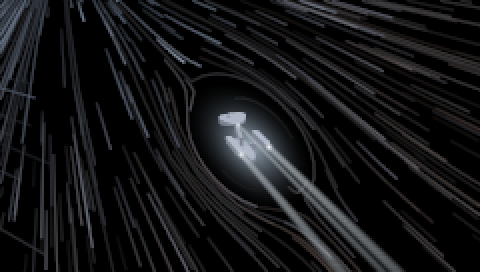
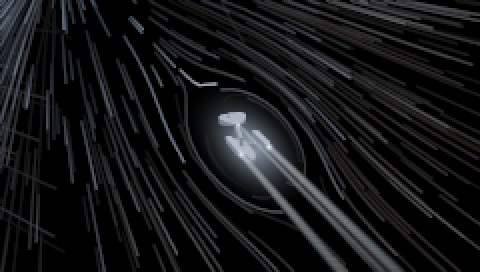
Shoot both front-page frames at the same size
The README opens with two pictures and they were not the same shape.
The hero was 440x240 and the shot from astern 480x272, so the pair
stacked with a common left edge and a forty-pixel step down the right.
Neither size had been chosen against the other: cockpit shots were
taken at --size 220x60 because the first one was, and exterior shots at
the default 240x68 because side.png was and astern.png followed it. Two
conventions, one page.

Both are the default now. Neither command passes --size, which is the
whole of the fix and the part worth keeping: run_snapshot falls back to
240x68, a cell is two subpixels tall, and --scale 2 doubles both axes,
so 480x272 falls out of asking for nothing.

    common="--engage --throttle 1.0 --warmup 600 --scale 2"
    warp --snapshot docs/warp.png   $common --seed 6
    warp --snapshot docs/astern.png $common --view side --orbit 245,30,0 --seed 8

The seeds are re-picked because the hero's was chosen against a frame
it no longer has. 354708a took seed 7 at 220x60 for spreading the
streaks most evenly into the corners, and the frame is wider and taller
now with a pool that grows with it — 528 stars to 652, the automatic
density being per subpixel rather than per cell. Eight seeds were
rendered at the new framing and measured on the mean brightness of the
four corner sixteenths: seed 6 holds them within 91% of each other,
where seed 7 manages 57% and the shot being replaced 36%. It also has
[…]

diff --git a/src/cli.rs b/src/cli.rs
@@ -49,7 +49,8 @@ const MAX_COUNT: u32 = 1_000_000;
 /// the image is the canvas magnified on both axes, so at the snapshot's
 /// default 240x68 — 240 by 136 subpixels — sixteen comes to 3840 by 2176, or
 /// 25 MB of RGB. Past that the useful range has long since been left behind;
-/// the README's snapshots are taken at 2 and 3.
+/// the README's snapshots are both taken at 2, as is every other image in
+/// `docs/`.
 #[cfg(feature = "snapshot")]
 const MAX_SCALE: usize = 16;
 

diff --git a/CLAUDE.md b/CLAUDE.md
@@ -98,6 +98,31 @@ cargo run --release --features snapshot -- \
 The PNG is the **starfield only**. The instrument panel and the ship picker
 live in the character grid, not in the pixel buffer, so they are not in it.
 
+The two images on the README's front page are that command with a seed on it,
+and they are written down here because they were not: both recipes lived only
+in the commit messages that shot them, which is how the hero came to advertise
+twice the sky a default run draws for the whole life of the renderer before
+anyone thought to check it.
+
+```sh
+common="--engage --throttle 1.0 --warmup 600 --scale 2"
+warp --snapshot docs/warp.png   $common --seed 6
+warp --snapshot docs/astern.png $common --view side --orbit 245,30,0 --seed 8
+```
+
+**Neither passes `--size`**, and that is the whole of what keeps the pair tidy.
+`run_snapshot` falls back to 240x68 and a cell is two subpixels tall, so both
+come out 480x272 and stack with their edges in line. The hero used to ask for
+`--size 220x60` and came out 440x240, which put a forty-pixel step down the
+right of the page for no reason anyone had written down. A reshoot that reaches
+for `--size` puts it back.
+
+Nothing pins these bytes — `tests/golden/frames.sha256` is the *text* frames and
+knows nothing about the PNGs — so a reshoot is checked by looking at it. What
+the flags guarantee is only that the drive is lit and fully spooled: 600 warmup
+frames at the default `--fps 60` is ten simulated seconds, and `run_snapshot`
+prints the velocity it finished at, which at `--throttle 1.0` is 2000 c.
+
 ## The golden frames — read this before touching the renderer
 
 `--headless` renders on a fixed timestep with no terminal control, so a fixed
